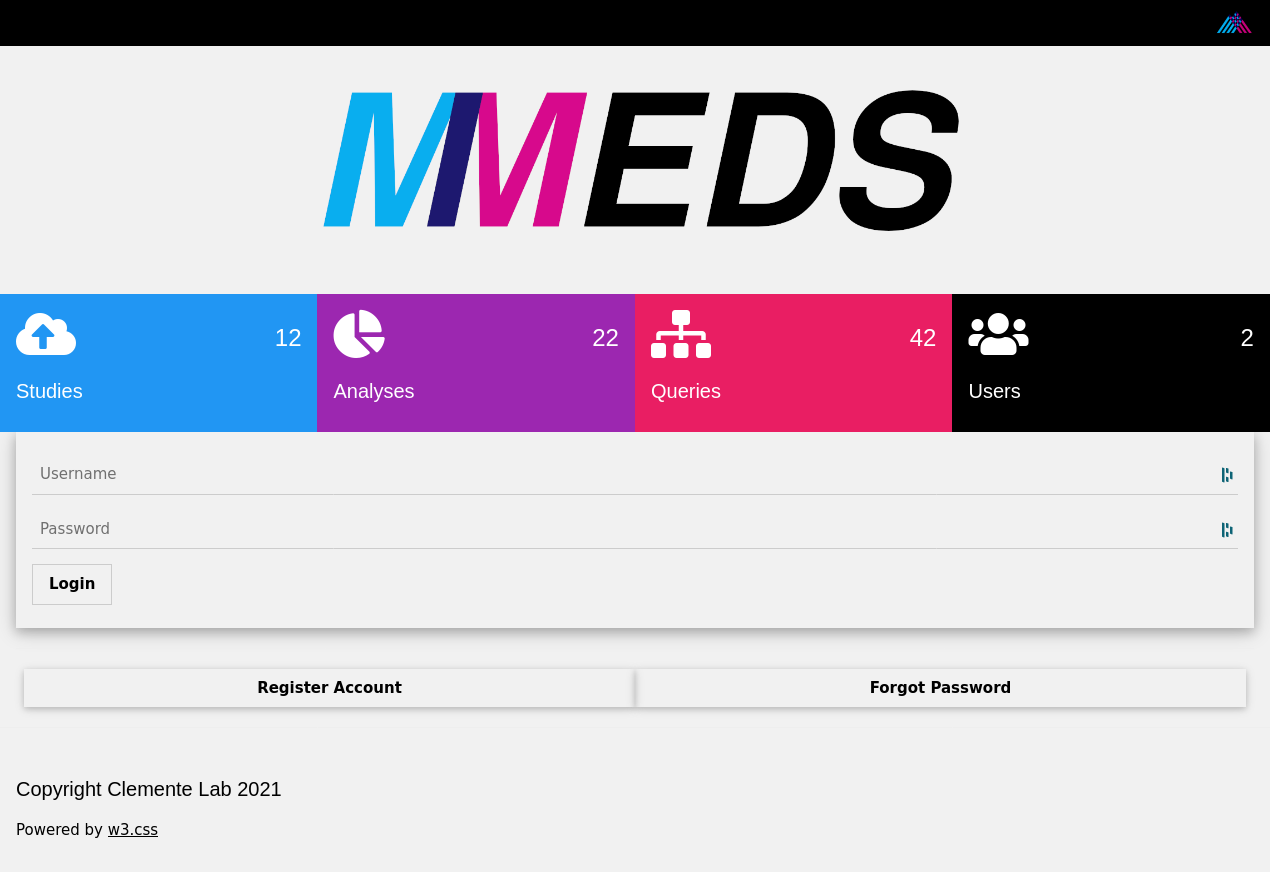
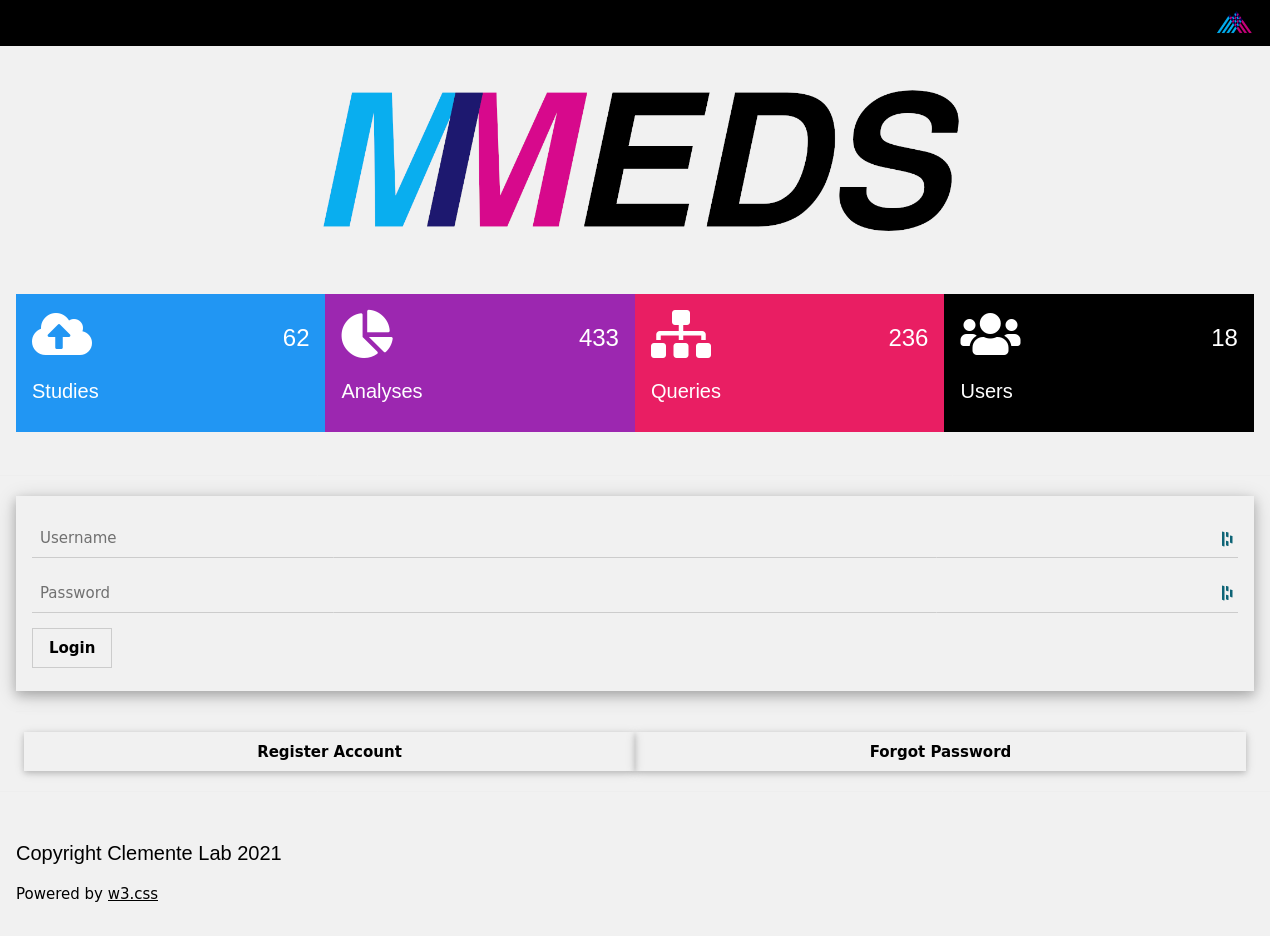
screenshot!

diff --git a/mmeds/html/logged_out_template.html b/mmeds/html/logged_out_template.html
@@ -28,7 +28,7 @@
         </div>
 
         <!-- !PAGE CONTENT! -->
-        <div class="w3-main">
+        <div class="w3-main w3-container">
             <div class="w3-quarter">
                 <div class="w3-container w3-blue w3-padding-16">
                     <div class="w3-left"><i class="fa fa-cloud-upload w3-xxxlarge"></i></div>
@@ -70,6 +70,7 @@
                 </div>
             </div>
         </div>
+        <br>
         <hr>
         {error}
         {warning}

diff --git a/mmeds/util.py b/mmeds/util.py
@@ -64,11 +64,11 @@ def format_alerts(args):
     return args
 
 
-def load_mmeds_stats(testing):
-    if testing:
-        stats = {}
-    else:
+def load_mmeds_stats():
+    if Path(fig.STAT_FILE).exists():
         stats = yaml.safe_load(fig.STAT_FILE.read_text())
+    else:
+        stats = {}
     return stats
 
 

diff --git a/mmeds/server.py b/mmeds/server.py
@@ -133,7 +133,7 @@ class MMEDSbase:
             args.update(kwargs)
 
             # Add the mmeds stats
-            args.update(load_mmeds_stats(self.testing))
+            args.update(load_mmeds_stats())
 
             # If a user is logged in, load the side bar
             if header:

diff --git a/README.md b/README.md
@@ -4,7 +4,7 @@
 [![codecov](https://codecov.io/gh/clemente-lab/mmeds-meta/branch/master/graph/badge.svg)](https://codecov.io/gh/clemente-lab/mmeds-meta)
 [![Codacy Badge](https://api.codacy.com/project/badge/Grade/e4cc5a646a8c4d53b55d6511e995657d)](https://www.codacy.com/manual/DSWallach/mmeds-meta?utm_source=github.com&amp;utm_medium=referral&amp;utm_content=clemente-lab/mmeds-meta&amp;utm_campaign=Badge_Grade)
 
-[![MMEDS Image](/test_files/MMEDS_image.png?raw=true "MMEDs Server")]
+![MMEDS Image](/test_files/MMEDS_image.png?raw=true "MMEDs Server")
 
 ## Instructions
 
